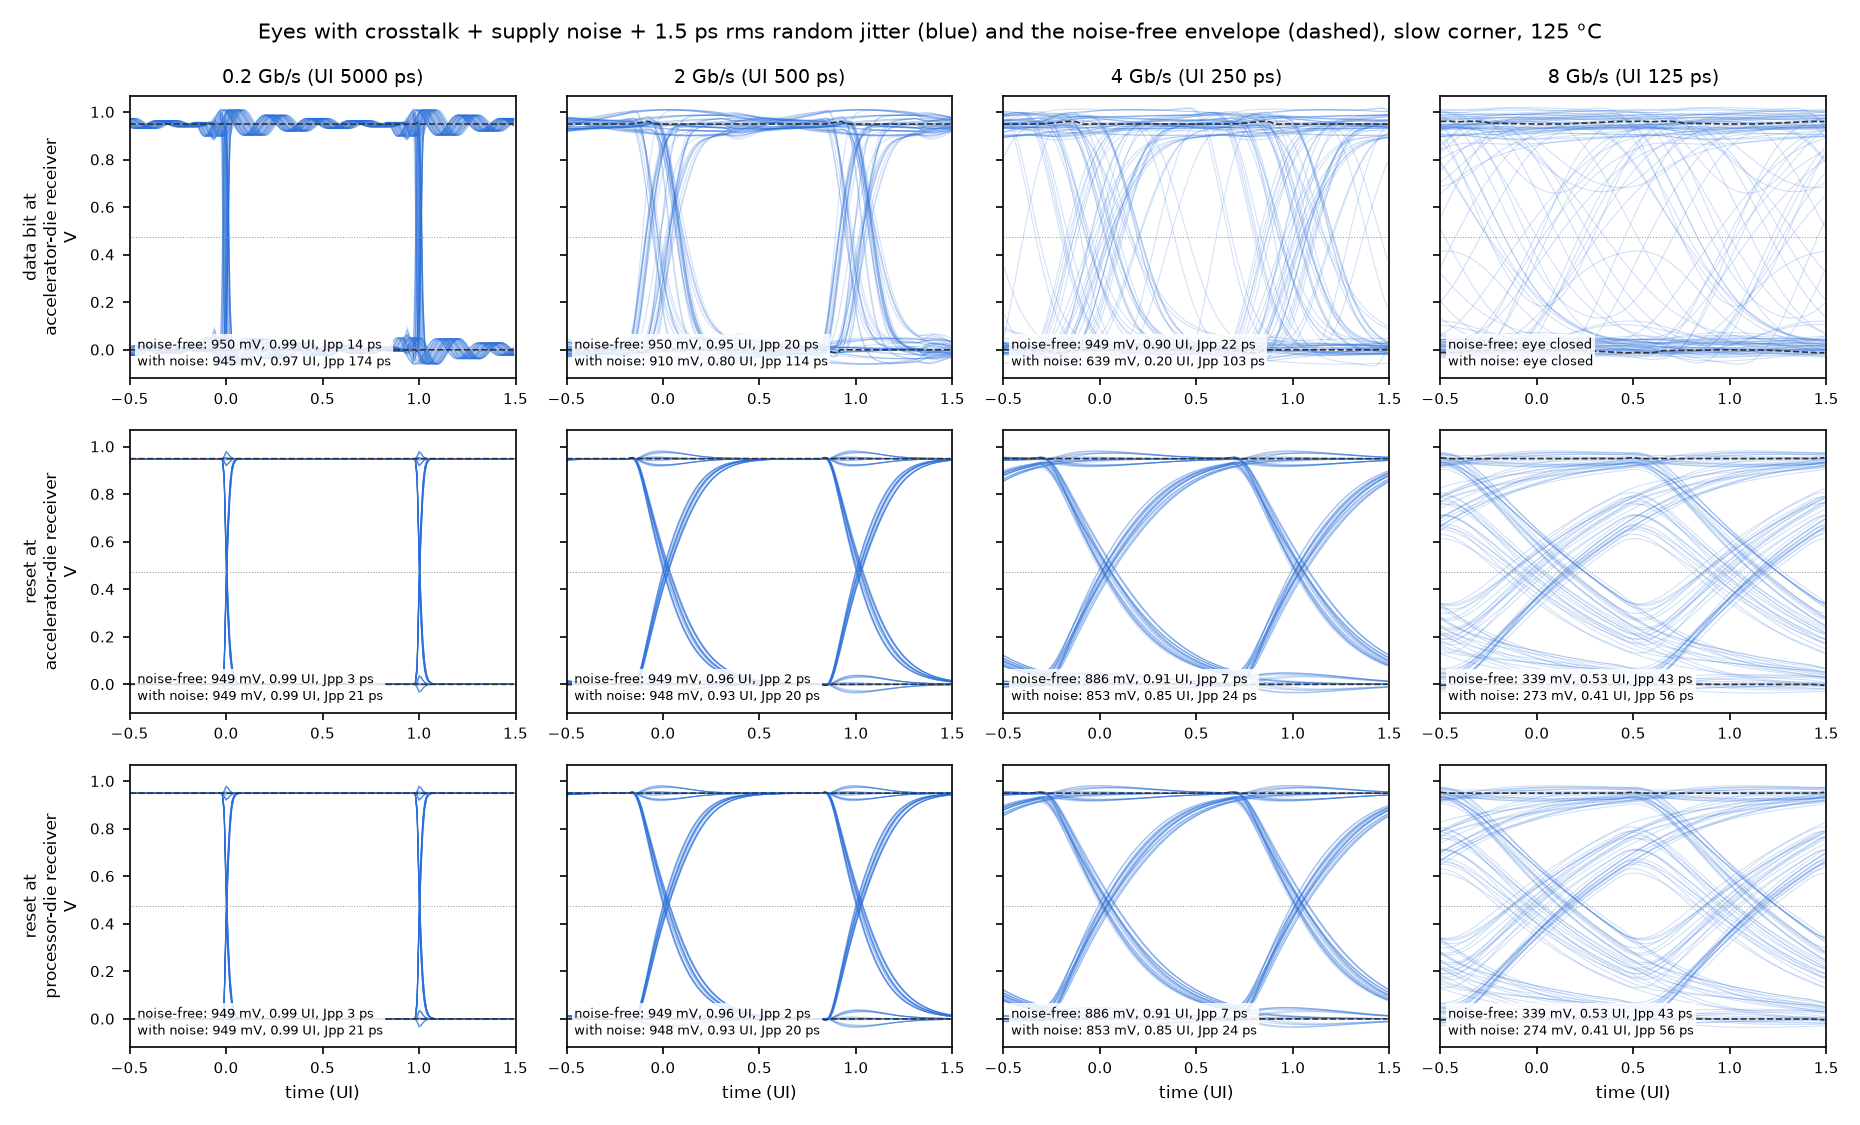
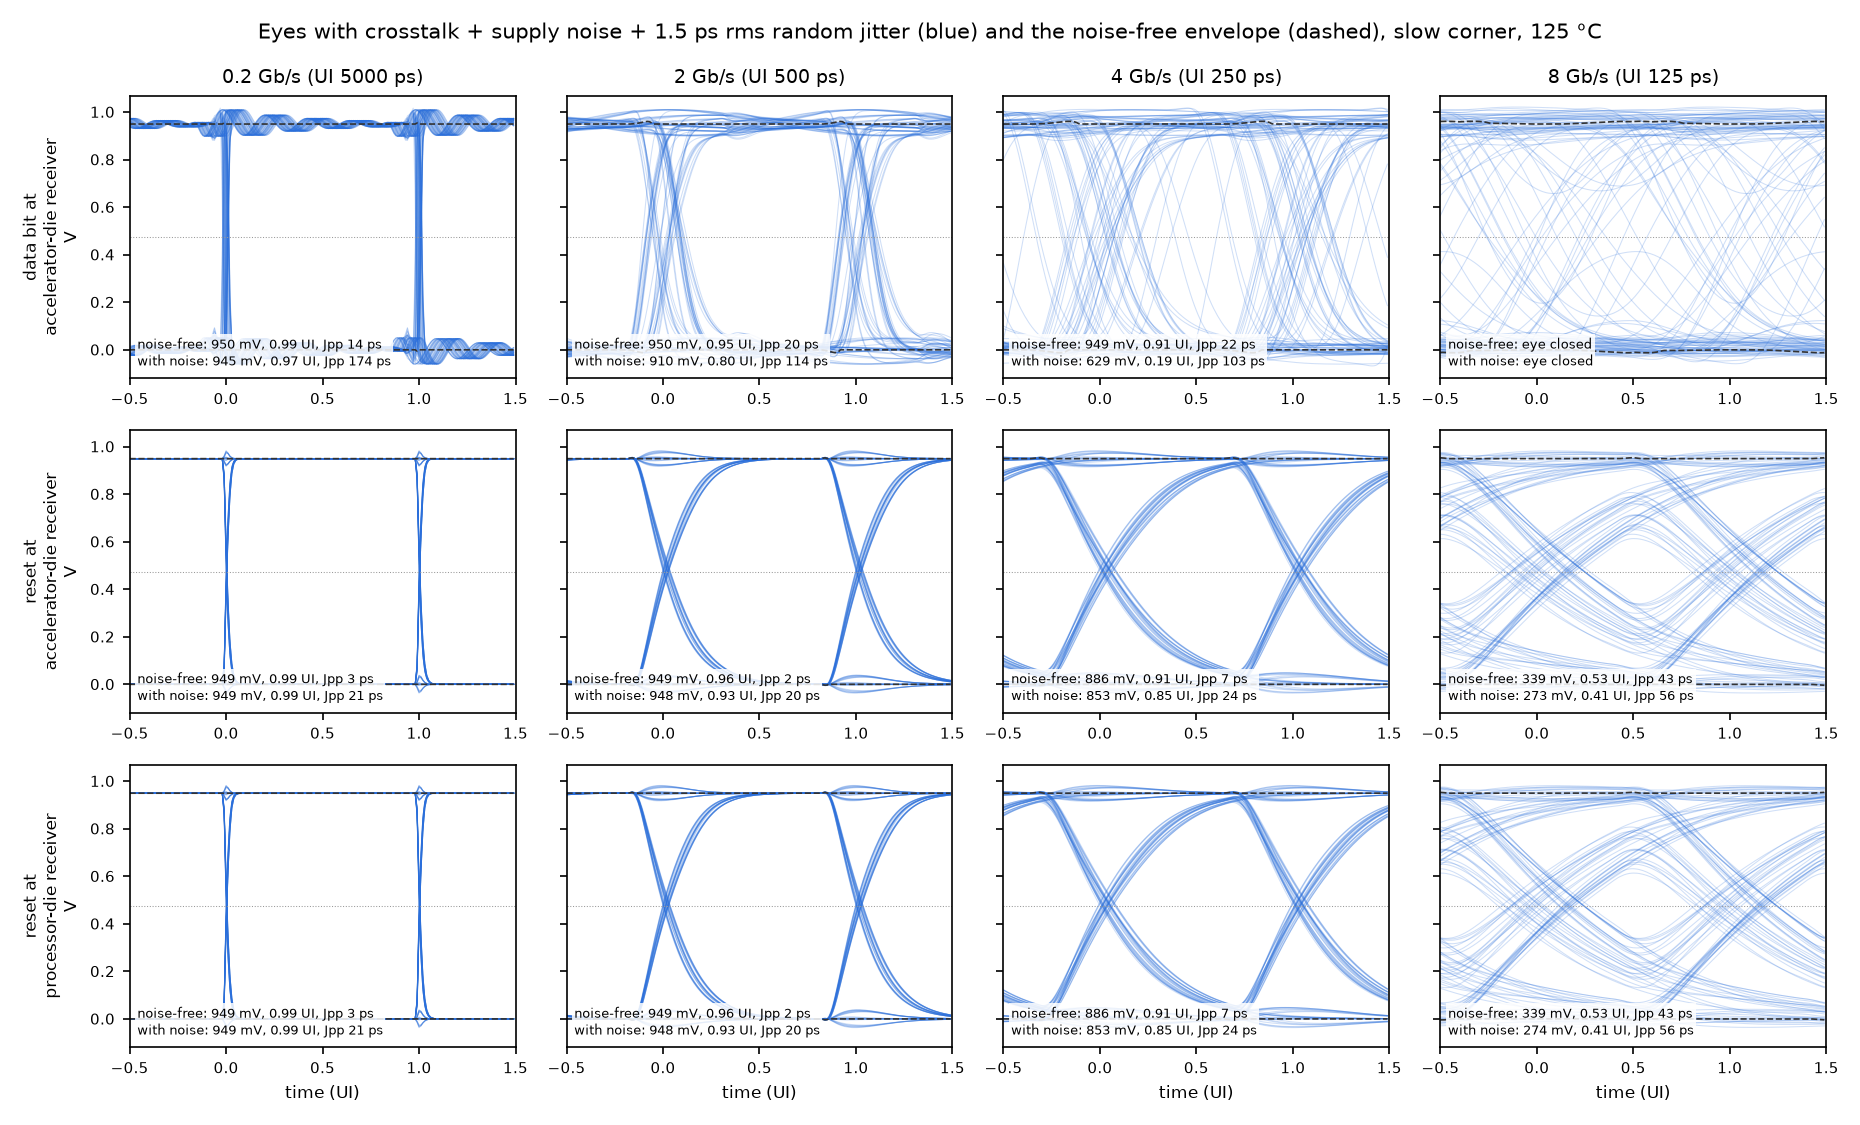
WP-201: update data-bit eye results and figures after rerun
Claude-Session: https://claude.ai/code/session_014W9fy3BwnEsnCyLhFZyPd6

diff --git a/whitepaper-sistack-3d-stack.html b/whitepaper-sistack-3d-stack.html
@@ -140,7 +140,7 @@
         <tbody>
           <tr><td>0.2 Gb/s (design rate)</td><td>950 mV · 0.99 UI</td><td>945 mV · 0.97 UI</td><td>949 mV · 0.99 UI</td><td>949 mV · 0.99 UI</td></tr>
           <tr><td>2 Gb/s</td><td>950 mV · 0.95 UI</td><td>910 mV · 0.80 UI</td><td>949 mV · 0.96 UI</td><td>948 mV · 0.93 UI</td></tr>
-          <tr><td>4 Gb/s</td><td>949 mV · 0.90 UI</td><td>639 mV · 0.20 UI</td><td>886 mV · 0.91 UI</td><td>853 mV · 0.85 UI</td></tr>
+          <tr><td>4 Gb/s</td><td>949 mV · 0.91 UI</td><td>629 mV · 0.19 UI</td><td>886 mV · 0.91 UI</td><td>853 mV · 0.85 UI</td></tr>
           <tr><td>8 Gb/s</td><td>closed</td><td>closed</td><td>339 mV · 0.53 UI</td><td>273 mV · 0.41 UI</td></tr>
         </tbody>
       </table>
